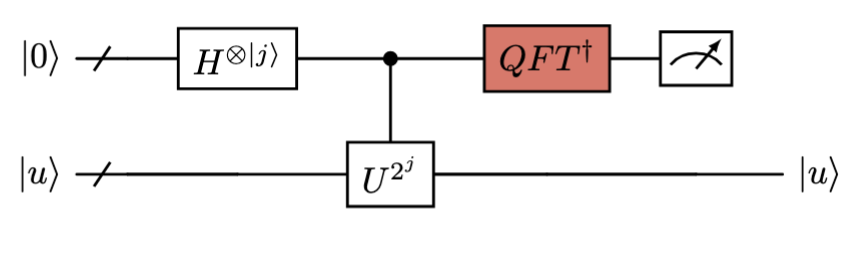
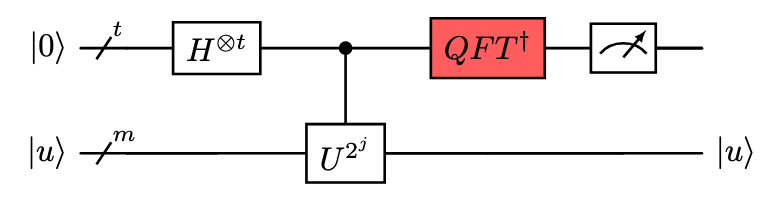
Modify lecture notes to reflect the changes in slides

Changed region(s): [[0.0, 0.0563, 0.9948, 0.8732]]

diff --git a/lecture-06/lecture-06-eqa1.md b/lecture-06/lecture-06-eqa1.md
@@ -66,11 +66,11 @@ Wide variety of <span class="hl-green">applications</span>:
 - <span class="hl-red">Fourier Transform (FT)</span>: Converts a function into a representation of its frequency components:
 
 
-$$\hat{f}(\xi) = \int_{-\infty}^{\infty}f(t)e^{-i2\pi\xi t}dt$$
+$$\hat{f}(\omega) = \frac{1}{\sqrt{2\pi}}\int_{-\infty}^{\infty}f(t)e^{-i\omega t}dt$$
 
 - <span class="hl-red">Inverse Fourier Transform (IFT)</span>: Reconstructs a function from its frequency domain back to the original time domain:
 
-$${f}(t) = \int_{-\infty}^{\infty}f(\xi)e^{i2\pi\xi t}d\xi$$
+$${f}(t) = \frac{1}{\sqrt{2\pi}}\int_{-\infty}^{\infty}\hat{f}(\omega)e^{i\omega t}d\omega$$
 
 ### Frequency Composition
 
@@ -103,7 +103,7 @@ Fourier transform of different square functions.
 
 - Fourier transforms follow an <span class="hl-blue">uncertainty principle</span> similar to Heisenberg's one in quantum mechanics. A signal can't be <span class="hl-red">both</span> localised in <span class="hl-red">time</span> and <span class="hl-red">frequency</span>:
 
-$$\Delta t \cdot \Delta f \geq \frac{1}{4\pi}$$
+$$\Delta t \cdot \Delta \omega \geq \frac{1}{2}$$
 
 ## Quantum Fourier Transform
 
@@ -115,7 +115,7 @@ $$y_j = \sum_{k=0}^{N-1}x_k e^{-i2\pi jk/N},\quad j=0,1,\dots,N-1$$
 
 - <span class="hl-red">Quantum Fourier Transform (QFT)</span>: Converts a <span class="hl-green">basis state</span> $\ket{j}$ to a superposition of all basis states, weighted by a complex phase encoding <span class="hl-green">frequencies</span> information:
 
-$$\ket{j} = \frac{1}{\sqrt{N}}\sum_{k=0}^{N-1}e^{i2\pi jk/N}\ket{k},\quad j=0,1,\dots,N-1$$
+$$\text{QFT}\ket{j} = \frac{1}{\sqrt{N}}\sum_{k=0}^{N-1}e^{i2\pi jk/N}\ket{k},\quad j=0,1,\dots,N-1$$
 
 - <span class="hl-blue">QFT</span> is very similar to <span class="hl-blue">DFT</span>, but:
 
@@ -200,9 +200,9 @@ $$\textcolor{blue}{\boldsymbol{\rightarrow}}\begin{array}{c}\textcolor{green}{j_
 
 - <span class="hl-red">Hadamard</span> gate in <span class="hl-red">binary fraction</span> notation:
 
-$$H\ket{j_1}=\ket{0}+e^{i2\pi 0.j_1}\ket{1}$$
+$$H\ket{j_1}=\frac{1}{\sqrt{2}}\left(\ket{0}+e^{i2\pi 0.j_1}\ket{1}\right)$$
 
-$$\textcolor{blue}{\boldsymbol{\rightarrow}}\begin{array}{c} H\ket{0}=\ket{0}+e^{i2\pi\cdot\textcolor{red}{0}/2}\ket{1}=\ket{0}+\ket{1}\\H\ket{1}=\ket{0}+e^{i2\pi\cdot\textcolor{red}{1}/2}\ket{1}=\ket{0}-\ket{1}\end{array}$$
+$$\textcolor{blue}{\boldsymbol{\rightarrow}}\begin{array}{c} H\ket{0}=\frac{1}{\sqrt{2}}\left(\ket{0}+e^{i2\pi\cdot\textcolor{red}{0}/2}\ket{1}\right)=\frac{1}{\sqrt{2}}\left(\ket{0}+\ket{1}\right)\\H\ket{1}=\frac{1}{\sqrt{2}}\left(\ket{0}+e^{i2\pi\cdot\textcolor{red}{1}/2}\ket{1}\right)=\frac{1}{\sqrt{2}}\left(\ket{0}-\ket{1}\right)\end{array}$$
 
 ### Product Representation
 
@@ -264,7 +264,7 @@ $$\ket{\psi_1} = \left(\textcolor{blue}{\ket{0}+e^{i2\pi0.j_1j_2j_3}\ket{1}}\rig
 
 $$\ket{\psi_2} = \left({\ket{0}+e^{i2\pi0.j_1j_2j_3}\ket{1}}\right)\left(\textcolor{blue}{\ket{0}+e^{i2\pi0.j_2j_3}\ket{1}}\right)\ket{j_3}$$
 
-$$\ket{\psi_3} = \left(\textcolor{blue}{\ket{0}+e^{i2\pi0.j_3}}\right)\left({\ket{0}+e^{i2\pi0.j_2j_3}\ket{1}}\right)\left({\ket{0}+e^{i2\pi0.j_1j_2j_3}\ket{1}}\right)$$
+$$\ket{\psi_3} = \left(\textcolor{blue}{\ket{0}+e^{i2\pi0.j_3}\ket{1}}\right)\left({\ket{0}+e^{i2\pi0.j_2j_3}\ket{1}}\right)\left({\ket{0}+e^{i2\pi0.j_1j_2j_3}\ket{1}}\right)$$
 
 ### Inverse Circuit
 
@@ -389,7 +389,7 @@ QPE full circuit.
 
 - If $\phi$ can be exactly expressed as a <span class="hl-red">binary fraction</span>, QPE yields the <span class="hl-green">correct result 100% of the time</span>. For example, $\phi=\tfrac{3}{8} = \tfrac{0}{2}+\tfrac{1}{4}+\tfrac{1}{8}$, so <span class="hl-blue">QPE outputs</span> $\ket{011}$ with <span class="hl-green">probability = 1</span>.
 
-- If $\phi$ can't be exactly expressed as a <span class="hl-red">binary fraction</span>, e.g. $\phi = \tfrac{1}{6}=0.16666...$, it has a <span class="hl-red">repeating</span> binary expansion $\tfrac{1}{6} = 0.00\overline{1}\ldots$ that never terminates. <span class="hl-blue">QPE outputs</span> the closest value to $\phi$ with <span class="hl-green">probability</span> $\textcolor{green}{\geq\frac{4}{\pi^{2}}\approx 0.40}$.
+- If $\phi$ can't be exactly expressed as a <span class="hl-red">binary fraction</span>, e.g. $\phi = \tfrac{1}{6}=0.16666...$, it has a <span class="hl-red">repeating</span> binary expansion $\tfrac{1}{6} = 0.00\overline{10}\ldots$ that never terminates. <span class="hl-blue">QPE outputs</span> the closest value to $\phi$ with <span class="hl-green">probability</span> $\textcolor{green}{\geq\frac{4}{\pi^{2}}\approx 0.40}$.
 
 - Increasing the <span class="hl-blue">number of qubits</span> in the first register improves the approximation:
 
